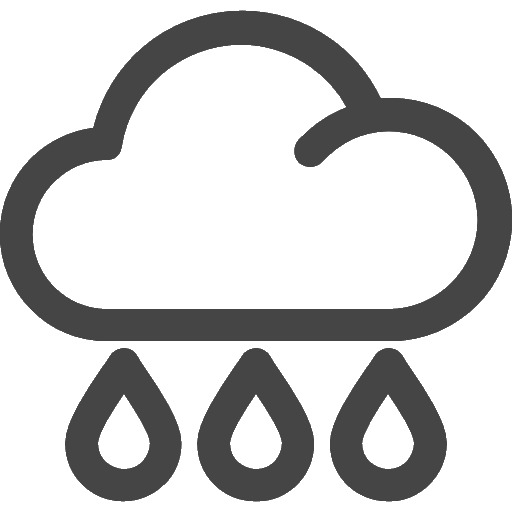
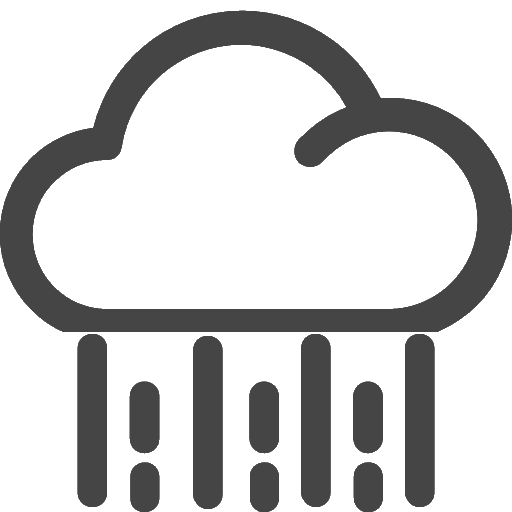
Fix: ícone e condições atualizadas para chuva

Changed region(s): [[0.125, 0.625, 0.875, 1.0]]

diff --git a/index.js b/index.js
@@ -4,11 +4,11 @@ import weather from "./modules/weather.js";
 import logout from "./modules/logout.js";
 import passSpace from "./modules/passSpace.js";
 
-history.pushState(
-  null,
-  "Home - First Project",
-  "https://pablo-barral.github.io/ProjetoAtividade01/login"
-);
+// history.pushState(
+//   null,
+//   "Home - First Project",
+//   "https://pablo-barral.github.io/ProjetoAtividade01/login"
+// );
 login();
 passSpace();
 logout();

diff --git a/modules/weatherIcon.js b/modules/weatherIcon.js
@@ -3,7 +3,7 @@ export default function weatherIcon(icon, id) {
     icon = "./assets/storm.png";
   } else if (id.includes("thunder")) {
     icon = "./assets/thunder.png";
-  } else if (id.includes("rain")) {
+  } else if (id.includes("rain") || id.includes("drizzle")) {
     icon = "./assets/raining.png";
   } else if (id.includes("Fog") || id.includes("Mist")) {
     icon = "./assets/cloud.png";
